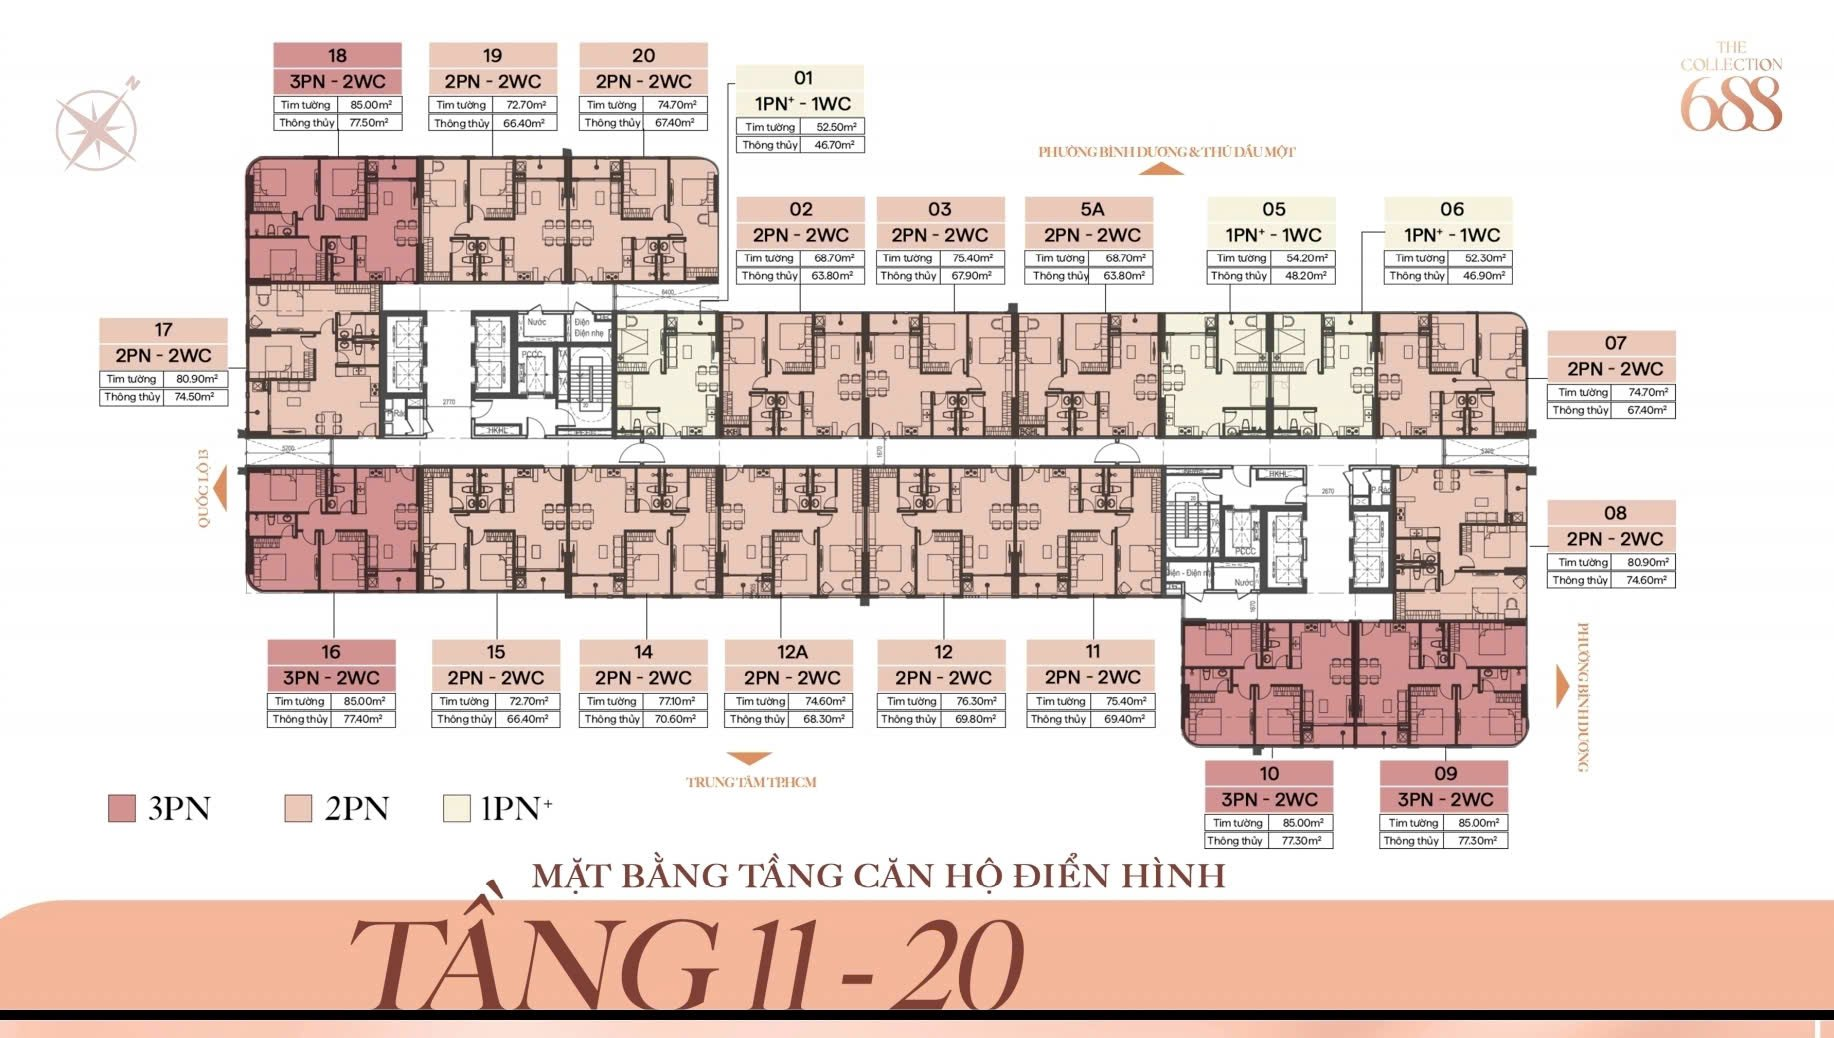
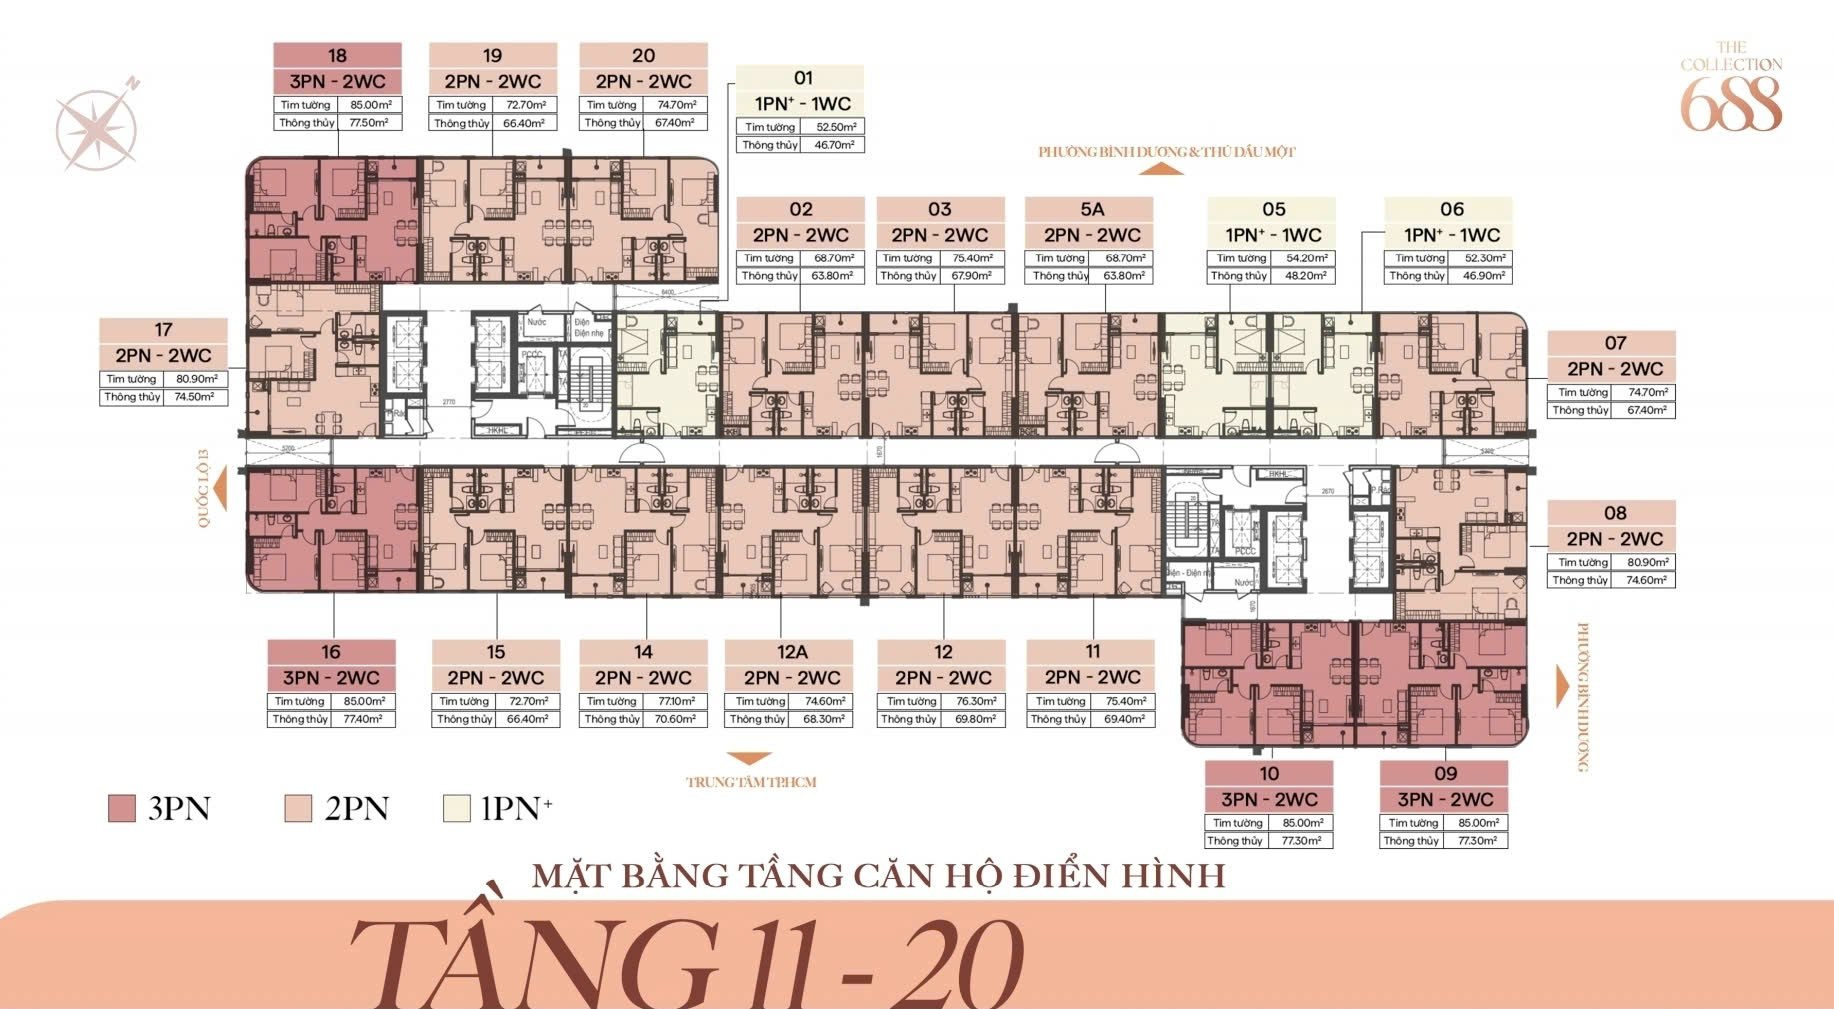
Landing 688: fix blank call button after form submit, equal floor-plan cards, drop needs/notes fields from bottom form
Claude-Session: https://claude.ai/code/session_01C6GaLoDUJ3wuZQYECWsHWh

diff --git a/wp-content/themes/flatsome-child/assets/css/landing.css b/wp-content/themes/flatsome-child/assets/css/landing.css
@@ -1282,3 +1282,11 @@ div.bds-video { cursor: default; }
 @media (max-width: 849px) {
 	.bds-lux .row.row-xsmall[class*="large-columns-"] { padding: 0 10px; }
 }
+
+/* v8.2 – Mặt bằng: 2 ảnh cùng khung, thẻ cao bằng nhau; nút sau khi gửi form */
+.bds-plans > .col > .col-inner { height: 100%; }
+.bds-plan-img .img-inner { aspect-ratio: 16 / 9; background: #fff; }
+.bds-plan-img .img-inner img { width: 100%; height: 100%; object-fit: contain; }
+.bds-alert__actions.bds-callbtns { margin-top: 12px; }
+.bds-alert .bds-callbtn { box-shadow: 0 4px 12px rgba(0, 0, 0, .1); }
+.bds-alert .bds-callbtn__txt strong { font-size: 1rem; }

diff --git a/wp-content/themes/flatsome-child/inc/importer.php b/wp-content/themes/flatsome-child/inc/importer.php
@@ -314,7 +314,7 @@ function bds_import_blocks() {
 	$plans = '';
 	foreach ( array( 1, 2 ) as $n ) {
 		$plans .= sprintf(
-			"[col span=\"6\" span__sm=\"12\"]\n[ux_image id=\"%d\" lightbox=\"true\"]\n<h3 class=\"bds-plan__title\">%s</h3>\n<p class=\"bds-plan__desc\">%s</p>\n[/col]\n",
+			"[col span=\"6\" span__sm=\"12\"]\n[ux_image id=\"%d\" lightbox=\"true\" class=\"bds-plan-img\"]\n<h3 class=\"bds-plan__title\">%s</h3>\n<p class=\"bds-plan__desc\">%s</p>\n[/col]\n",
 			bds_mid( "floorplan_{$n}_image" ),
 			bds_tx( bds_opt( "floorplan_{$n}_title" ) ),
 			bds_tx( bds_opt( "floorplan_{$n}_desc" ) )
@@ -326,7 +326,7 @@ function bds_import_blocks() {
 			'[section label="Mặt bằng" bg_color="{{BEIGE}}" padding="90px"]
 [scroll_to title="Mặt bằng" link="#mat-bang" bullet="false"]
 %1$s
-[row col_bg="rgb(255,255,255)" col_bg_radius="8" padding="18px 18px 8px 18px"]
+[row col_bg="rgb(255,255,255)" col_bg_radius="8" padding="18px 18px 8px 18px" class="bds-plans"]
 %2$s[/row]
 [/section]',
 			bds_sc_title( bds_opt( 'floorplans_title' ) ),
@@ -553,7 +553,7 @@ function bds_import_blocks() {
 <p class="bds-register__hotline">Hotline tư vấn 24/7: <a href="tel:%4$s">%5$s</a></p>
 %6$s[/col]
 [col span="6" span__sm="12"]
-[bds_lead_form title="Đăng ký nhận bảng giá & tư vấn" button="Nhận bảng giá ngay" source="Cuối trang" full="1" card="1" perks="1"]
+[bds_lead_form title="Đăng ký nhận bảng giá & tư vấn" button="Nhận bảng giá ngay" source="Cuối trang" card="1" perks="1"]
 [/col]
 [/row]
 [row]

diff --git a/wp-content/themes/flatsome-child/template-parts/bds/lead-form.php b/wp-content/themes/flatsome-child/template-parts/bds/lead-form.php
@@ -53,14 +53,7 @@ $bds_messages = array(
 		<div class="bds-alert bds-alert--<?php echo 'success' === $bds_status ? 'success' : 'error'; ?>" role="alert">
 			<?php echo esc_html( $bds_messages[ $bds_status ] ); ?>
 			<?php if ( 'success' === $bds_status ) : ?>
-				<span class="bds-alert__actions">
-					<?php if ( bds_opt( 'hotline' ) ) : ?>
-						<a class="button primary is-small" href="tel:<?php echo esc_attr( bds_tel( bds_opt( 'hotline' ) ) ); ?>">Gọi ngay <?php echo esc_html( bds_opt( 'hotline' ) ); ?></a>
-					<?php endif; ?>
-					<?php if ( bds_opt( 'zalo' ) ) : ?>
-						<a class="button secondary is-small" href="https://zalo.me/<?php echo esc_attr( bds_tel( bds_opt( 'zalo' ) ) ); ?>" target="_blank" rel="noopener">Chat Zalo</a>
-					<?php endif; ?>
-				</span>
+				<div class="bds-callbtns bds-alert__actions"><?php echo bds_call_buttons_html(); // phpcs:ignore WordPress.Security.EscapeOutput.OutputNotEscaped -- đã escape trong hàm. ?></div>
 			<?php endif; ?>
 		</div>
 	<?php endif; ?>

diff --git a/wp-content/themes/flatsome-child/functions.php b/wp-content/themes/flatsome-child/functions.php
@@ -7,7 +7,7 @@
 
 defined( 'ABSPATH' ) || exit;
 
-define( 'BDS_VERSION', '1.6.2' );
+define( 'BDS_VERSION', '1.6.3' );
 define( 'BDS_DIR', get_stylesheet_directory() );
 define( 'BDS_URI', get_stylesheet_directory_uri() );
 
